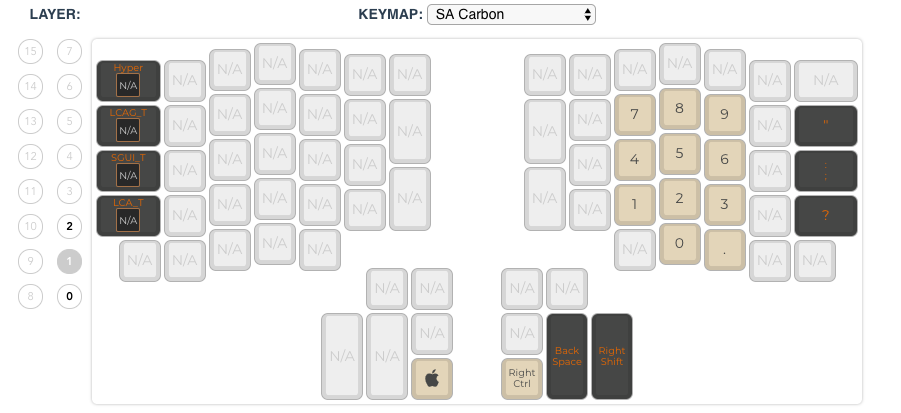
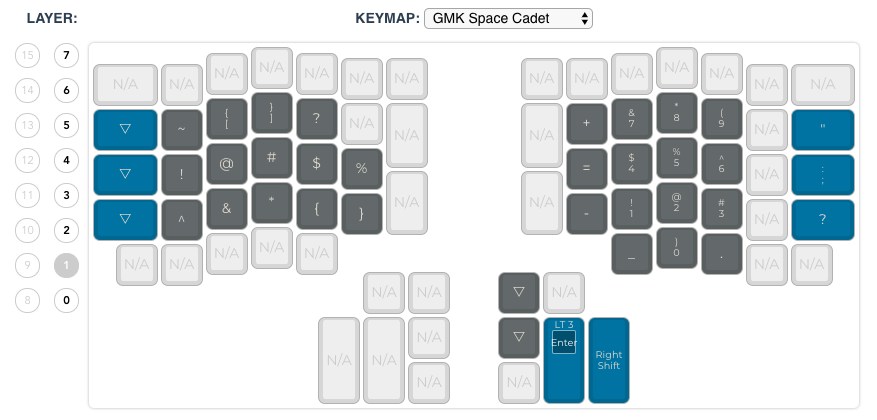
Update awesome layouts.

diff --git a/keymap.c b/keymap.c
@@ -1,7 +1,12 @@
 #include QMK_KEYBOARD_H
 
 const uint16_t PROGMEM keymaps[][MATRIX_ROWS][MATRIX_COLS] = {
-	[0] = LAYOUT_ergodox(HYPR(KC_NO), KC_EXLM, KC_AT, KC_HASH, KC_DLR, KC_PERC, KC_LBRC, LCAG_T(KC_NO), KC_GRV, KC_COMM, KC_DOT, KC_P, KC_Y, KC_SPC, SGUI_T(KC_NO), KC_A, KC_O, KC_E, KC_U, KC_I, LCA_T(KC_NO), KC_LALT, KC_Q, KC_J, KC_K, KC_X, KC_MINS, KC_TAB, KC_NO, KC_NO, KC_LPRN, KC_ESC, KC_TAB, LT(2,KC_NO), KC_LSFT, LT(1,KC_BSPC), KC_LCTL, KC_LGUI, KC_RBRC, KC_CIRC, KC_AMPR, KC_ASTR, KC_LCBR, KC_RCBR, KC_NO, KC_BSLS, KC_F, KC_G, KC_C, KC_R, KC_L, KC_QUOT, KC_D, KC_H, KC_T, KC_N, KC_S, KC_COLN, KC_EQL, KC_B, KC_M, KC_W, KC_V, KC_Z, KC_SLSH, KC_TAB, KC_RPRN, KC_NO, KC_NO, KC_NO, KC_NO, KC_NO, KC_NO, KC_SPC, KC_ENT, KC_RSFT),
-	[1] = LAYOUT_ergodox(HYPR(KC_NO), KC_NO, KC_NO, KC_NO, KC_NO, KC_NO, KC_NO, LCAG_T(KC_NO), KC_NO, KC_NO, KC_NO, KC_NO, KC_NO, KC_NO, SGUI_T(KC_NO), KC_NO, KC_NO, KC_NO, KC_NO, KC_NO, LCA_T(KC_NO), KC_NO, KC_NO, KC_NO, KC_NO, KC_NO, KC_NO, KC_NO, KC_NO, KC_NO, KC_NO, KC_NO, KC_NO, KC_NO, KC_NO, KC_NO, KC_NO, KC_LGUI, KC_NO, KC_NO, KC_NO, KC_NO, KC_NO, KC_NO, KC_NO, KC_NO, KC_NO, KC_P7, KC_P8, KC_P9, KC_NO, KC_DQUO, KC_NO, KC_P4, KC_P5, KC_P6, KC_NO, KC_SCLN, KC_NO, KC_NO, KC_P1, KC_P2, KC_P3, KC_NO, KC_QUES, KC_NO, KC_P0, KC_PDOT, KC_NO, KC_NO, KC_NO, KC_NO, KC_NO, KC_RCTL, KC_BSPC, KC_RSFT),
-	[2] = LAYOUT_ergodox(EEP_RST, KC_NO, KC_NO, KC_NO, KC_NO, KC_NO, KC_MPLY, RESET, KC_NO, KC_NO, KC_NO, KC_NO, KC_NO, KC_MPRV, KC_NO, KC_NO, KC_NO, KC_NO, KC_NO, KC_NO, KC_NO, KC_NO, KC_NO, KC_NO, KC_NO, KC_NO, KC_MNXT, KC_NO, KC_NO, KC_NO, KC_NO, KC_NO, KC_NO, KC_NO, KC_NO, KC_NO, KC_NO, KC_NO, KC_MUTE, KC_NO, KC_NO, KC_NO, KC_NO, KC_NO, KC_NO, KC__VOLUP, KC_NO, KC_WH_D, KC_MS_U, KC_WH_U, KC_NO, KC_NO, KC_NO, KC_MS_L, KC_NO, KC_MS_R, KC_NO, KC_NO, KC__VOLDOWN, KC_NO, KC_NO, KC_MS_D, KC_NO, KC_NO, KC_NO, KC_NO, KC_NO, KC_NO, KC_NO, KC_NO, KC_ACL2, KC_NO, KC_ACL1, KC_ACL0, KC_BTN2, KC_BTN1)
+	[0] = LAYOUT_ergodox(KC_NO, KC_NO, KC_NO, KC_NO, KC_NO, KC_NO, KC_NO, C_S_T(KC_NO), KC_GRV, KC_COMM, KC_DOT, KC_P, KC_Y, KC_TAB, KC_LCTL, KC_A, LCTL_T(KC_O), KC_E, LSFT_T(KC_U), KC_I, SGUI(KC_NO), KC_NO, KC_Q, KC_J, KC_K, KC_X, LT(7,KC_NO), KC_NO, KC_NO, KC_NO, KC_MINS, KC_EQL, KC_NO, HYPR(KC_NO), LSFT(KC_NO), LT(1,KC_BSPC), KC_ESC, KC_LGUI, KC_NO, KC_NO, KC_NO, KC_NO, KC_NO, KC_NO, KC_NO, KC_BSLS, KC_F, KC_G, KC_C, KC_R, KC_L, KC_QUOT, KC_D, RSFT_T(KC_H), KC_T, RCTL_T(KC_N), KC_S, KC_COLN, KC_NO, KC_B, KC_M, KC_W, KC_V, KC_Z, KC_SLSH, KC_LPRN, KC_RPRN, KC_NO, KC_NO, KC_NO, HYPR(KC_NO), KC_NO, RCTL(KC_NO), KC_SPC, KC_ENT, KC_SPC),
+	[1] = LAYOUT_ergodox(KC_NO, KC_NO, KC_NO, KC_NO, KC_NO, KC_NO, KC_NO, KC_TRNS, KC_TILD, KC_LBRC, KC_RBRC, KC_QUES, KC_NO, KC_NO, KC_TRNS, KC_EXLM, KC_AT, KC_HASH, KC_DLR, KC_PERC, KC_TRNS, KC_CIRC, KC_AMPR, KC_ASTR, KC_LCBR, KC_RCBR, KC_NO, KC_NO, KC_NO, KC_NO, KC_NO, KC_NO, KC_NO, KC_NO, KC_NO, KC_NO, KC_NO, KC_NO, KC_NO, KC_NO, KC_NO, KC_NO, KC_NO, KC_NO, KC_NO, KC_NO, KC_PPLS, KC_7, KC_8, KC_9, KC_NO, KC_DQUO, KC_PEQL, KC_4, KC_5, KC_6, KC_NO, KC_SCLN, KC_NO, KC_PMNS, KC_1, KC_2, KC_3, KC_NO, KC_QUES, KC_UNDS, KC_0, KC_PDOT, KC_NO, KC_NO, KC_TRNS, KC_NO, KC_TRNS, KC_NO, LT(3,KC_ENT), KC_RSFT),
+	[2] = LAYOUT_ergodox(KC_NO, KC_NO, KC_NO, KC_NO, KC_NO, KC_NO, KC_NO, KC_NO, KC_TRNS, KC_NO, KC_NO, KC_NO, KC_NO, KC_NO, KC_NO, KC_NO, KC_NO, KC_NO, KC_NO, KC_NO, KC_NO, KC_NO, KC_NO, KC_NO, KC_NO, KC_NO, KC_NO, KC_NO, KC_NO, KC_NO, KC_NO, KC_NO, KC_NO, KC_NO, KC_NO, KC_NO, KC_NO, KC_NO, KC_NO, KC_NO, KC_NO, KC_NO, KC_NO, KC_NO, KC_NO, KC_NO, KC_NO, KC_NO, KC_NO, KC_NO, KC_NO, KC_NO, KC_NO, KC_NO, KC_NO, KC_NO, KC_NO, KC_NO, KC_NO, KC_NO, KC_NO, KC_NO, KC_NO, KC_NO, KC_NO, KC_NO, KC_NO, KC_NO, KC_NO, KC_NO, KC_NO, KC_NO, KC_NO, KC_NO, KC_NO, KC_NO),
+	[3] = LAYOUT_ergodox(KC_NO, KC_NO, KC_NO, KC_NO, KC_NO, KC_NO, KC_NO, KC_NO, KC_TRNS, KC_NO, KC_NO, KC_NO, KC_NO, KC_NO, KC_NO, KC_NO, KC_NO, KC_NO, KC_NO, KC_NO, KC_NO, KC_NO, KC_NO, KC_NO, KC_NO, KC_NO, KC_NO, KC_NO, KC_NO, KC_NO, KC_NO, KC_NO, KC_NO, KC_NO, KC_NO, KC_NO, KC_NO, KC_NO, KC_NO, KC_NO, KC_NO, KC_NO, KC_NO, KC_NO, KC_NO, KC_NO, KC_NO, KC_NO, KC_NO, KC_NO, KC_NO, KC_NO, KC_NO, KC_NO, KC_NO, KC_NO, KC_NO, KC_NO, KC_NO, KC_NO, KC_NO, KC_NO, KC_NO, KC_NO, KC_NO, KC_NO, KC_NO, KC_NO, KC_NO, KC_NO, KC_NO, KC_NO, KC_NO, KC_NO, KC_NO, KC_NO),
+	[4] = LAYOUT_ergodox(KC_NO, KC_NO, KC_NO, KC_NO, KC_NO, KC_NO, KC_NO, KC_NO, KC_TRNS, KC_NO, KC_NO, KC_NO, KC_NO, KC_NO, KC_NO, KC_NO, KC_NO, KC_NO, KC_NO, KC_NO, KC_NO, KC_NO, KC_NO, KC_NO, KC_NO, KC_NO, KC_NO, KC_NO, KC_NO, KC_NO, KC_NO, KC_NO, KC_NO, KC_NO, KC_NO, KC_NO, KC_NO, KC_NO, KC_NO, KC_NO, KC_NO, KC_NO, KC_NO, KC_NO, KC_NO, KC_NO, KC_NO, KC_NO, KC_NO, KC_NO, KC_NO, KC_NO, KC_NO, KC_NO, KC_NO, KC_NO, KC_NO, KC_NO, KC_NO, KC_NO, KC_NO, KC_NO, KC_NO, KC_NO, KC_NO, KC_NO, KC_NO, KC_NO, KC_NO, KC_NO, KC_NO, KC_NO, KC_NO, KC_NO, KC_NO, KC_NO),
+	[5] = LAYOUT_ergodox(KC_NO, KC_NO, KC_NO, KC_NO, KC_NO, KC_NO, KC_NO, KC_NO, KC_TRNS, KC_NO, KC_NO, KC_NO, KC_NO, KC_NO, KC_NO, KC_NO, KC_NO, KC_NO, KC_NO, KC_NO, KC_NO, KC_NO, KC_NO, KC_NO, KC_NO, KC_NO, KC_NO, KC_NO, KC_NO, KC_NO, KC_NO, KC_NO, KC_NO, KC_NO, KC_NO, KC_NO, KC_NO, KC_NO, KC_NO, KC_NO, KC_NO, KC_NO, KC_NO, KC_NO, KC_NO, KC_NO, KC_NO, KC_NO, KC_NO, KC_NO, KC_NO, KC_NO, KC_NO, KC_NO, KC_NO, KC_NO, KC_NO, KC_NO, KC_NO, KC_NO, KC_NO, KC_NO, KC_NO, KC_NO, KC_NO, KC_NO, KC_NO, KC_NO, KC_NO, KC_NO, KC_NO, KC_NO, KC_NO, KC_NO, KC_NO, KC_NO),
+	[6] = LAYOUT_ergodox(KC_NO, KC_NO, KC_NO, KC_NO, KC_NO, KC_NO, KC_NO, KC_NO, KC_TRNS, KC_NO, KC_NO, KC_NO, KC_NO, KC_NO, KC_NO, KC_NO, KC_NO, KC_NO, KC_NO, KC_NO, KC_NO, KC_NO, KC_NO, KC_NO, KC_NO, KC_NO, KC_NO, KC_NO, KC_NO, KC_NO, KC_NO, KC_NO, KC_NO, KC_NO, KC_NO, KC_NO, KC_NO, KC_NO, KC_NO, KC_NO, KC_NO, KC_NO, KC_NO, KC_NO, KC_NO, KC_NO, KC_NO, KC_NO, KC_NO, KC_NO, KC_NO, KC_NO, KC_NO, KC_NO, KC_NO, KC_NO, KC_NO, KC_NO, KC_NO, KC_NO, KC_NO, KC_NO, KC_NO, KC_NO, KC_NO, KC_NO, KC_NO, KC_NO, KC_NO, KC_NO, KC_NO, KC_NO, KC_NO, KC_NO, KC_NO, KC_NO),
+	[7] = LAYOUT_ergodox(EEP_RST, RESET, KC_NO, KC_NO, KC_NO, KC_NO, KC_NO, KC_NO, KC_NO, KC_NO, KC_NO, KC_NO, KC_NO, KC_NO, KC_NO, KC_NO, KC_NO, KC_NO, KC_NO, KC_NO, KC_NO, KC_NO, KC_NO, KC_NO, KC_NO, KC_NO, KC_NO, KC_NO, KC_NO, KC_NO, KC_NO, KC_NO, KC_NO, KC_NO, KC_NO, KC_NO, KC_NO, KC_NO, KC_MUTE, KC_NO, KC_NO, KC_NO, KC_NO, KC_NO, KC_NO, KC_VOLU, KC_MPRV, KC_WH_U, KC_MS_U, KC_WH_D, KC_NO, KC_NO, KC_MPLY, KC_MS_L, KC_NO, KC_MS_R, KC_NO, KC_NO, KC_VOLD, KC_MNXT, KC_NO, KC_MS_D, KC_NO, KC_NO, KC_NO, KC_NO, KC_NO, KC_NO, KC_NO, KC_NO, KC_ACL2, KC_NO, KC_ACL1, KC_ACL0, KC_BTN2, KC_BTN1)
 };
